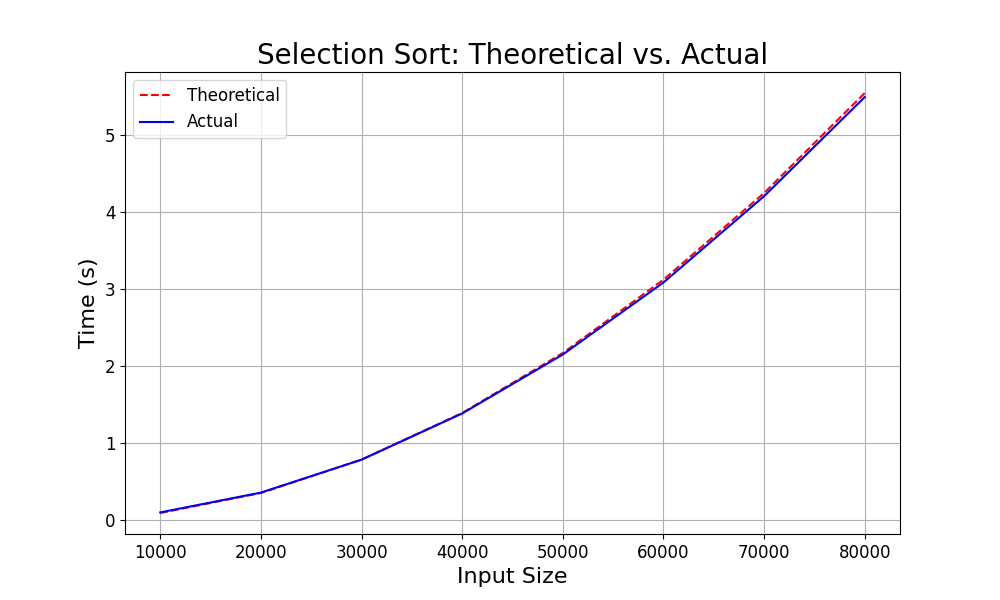
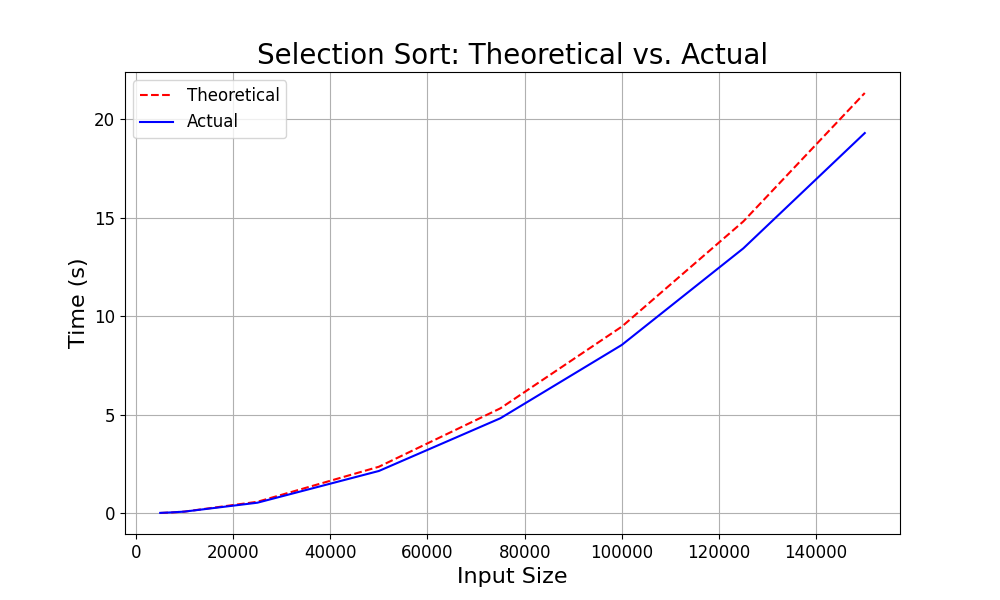
change benchmark group settings

diff --git a/lab1/theoreticalEfficiency.py b/lab1/theoreticalEfficiency.py
@@ -25,7 +25,7 @@ cpp_program = "./Algorithms.exe"
 algorithms_n2 = ["selection", "bubble", "insertion"]
 algorithms_nln = ["merge", "quick"]
 
-sizes_n2 = [10000,20000,30000,40000,50000,60000,70000,80000]
+sizes_n2 = [5000,7500,10000,25000,50000,75000,100000,125000,150000]
 sizes_nln = [1000000,2000000,3000000,4000000,5000000,6000000,7000000,8000000,9000000,10000000]
 
 time_limit = 120
